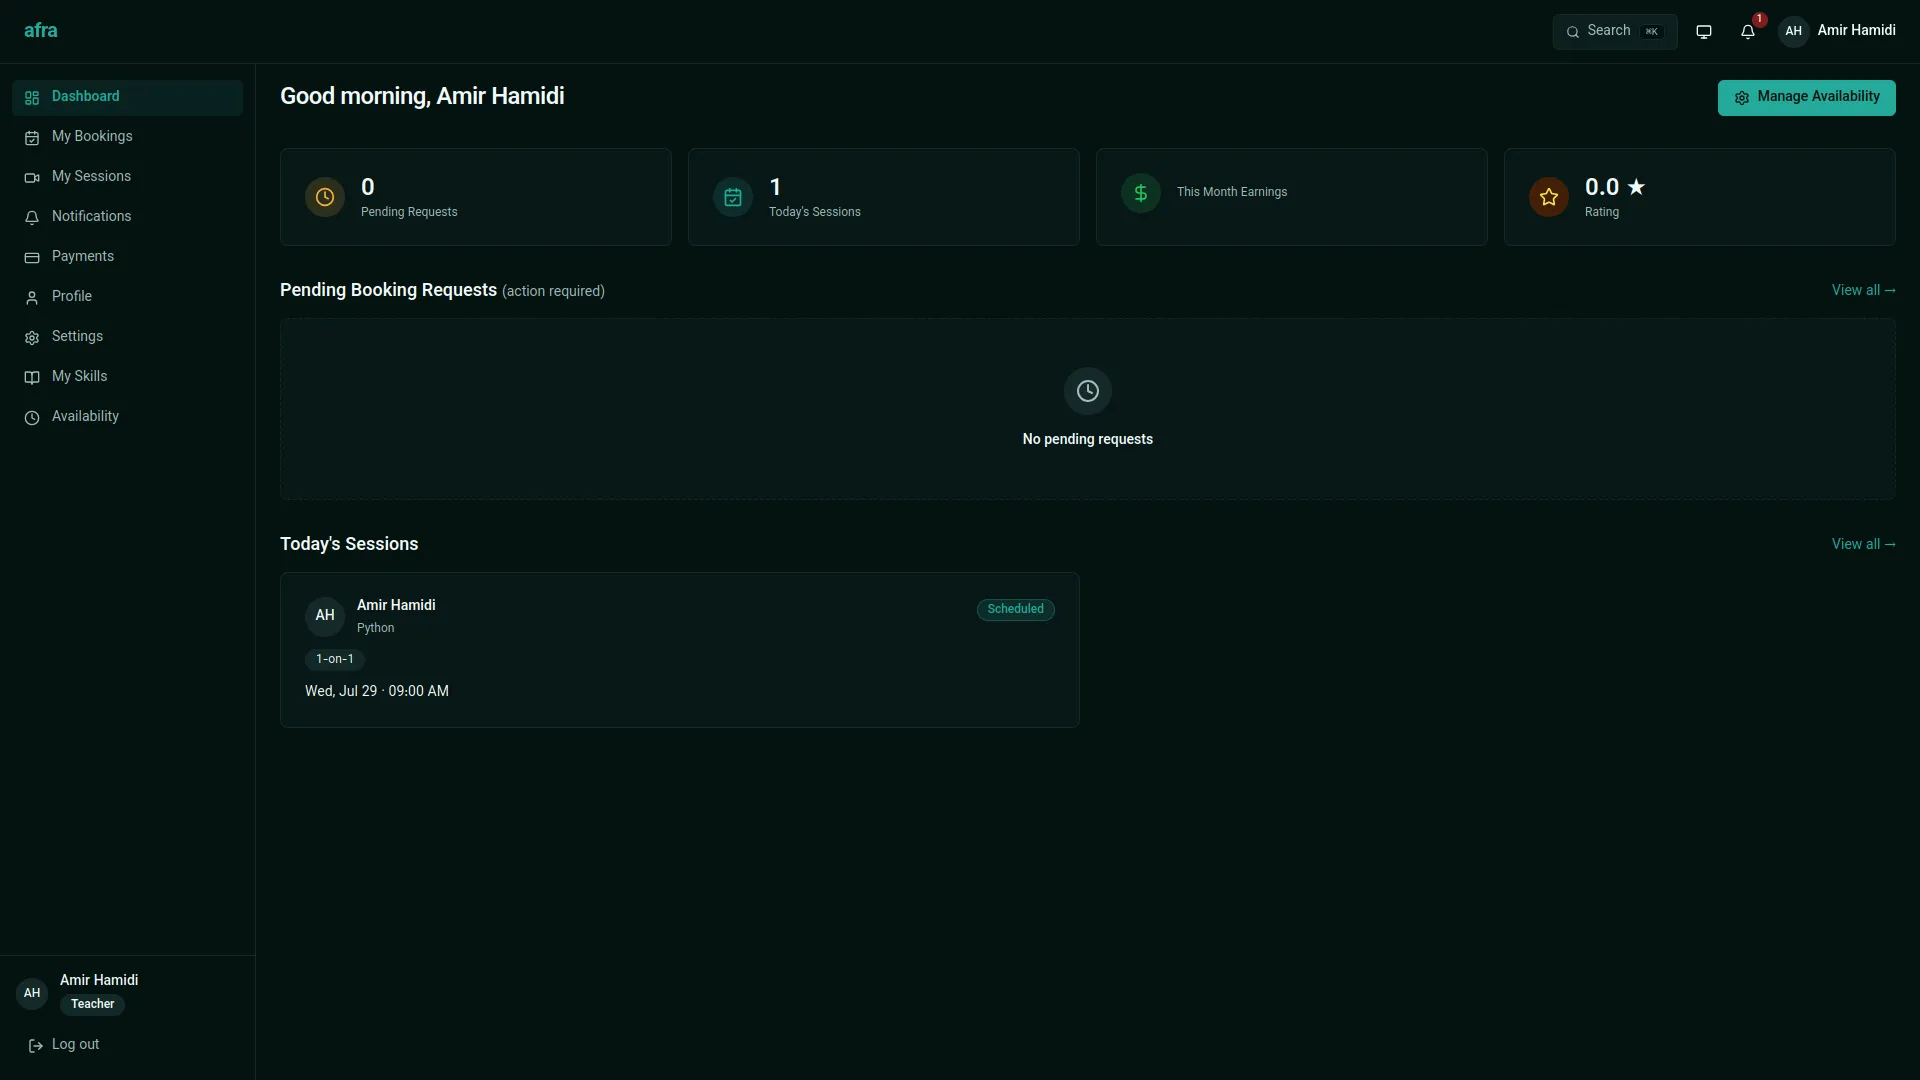
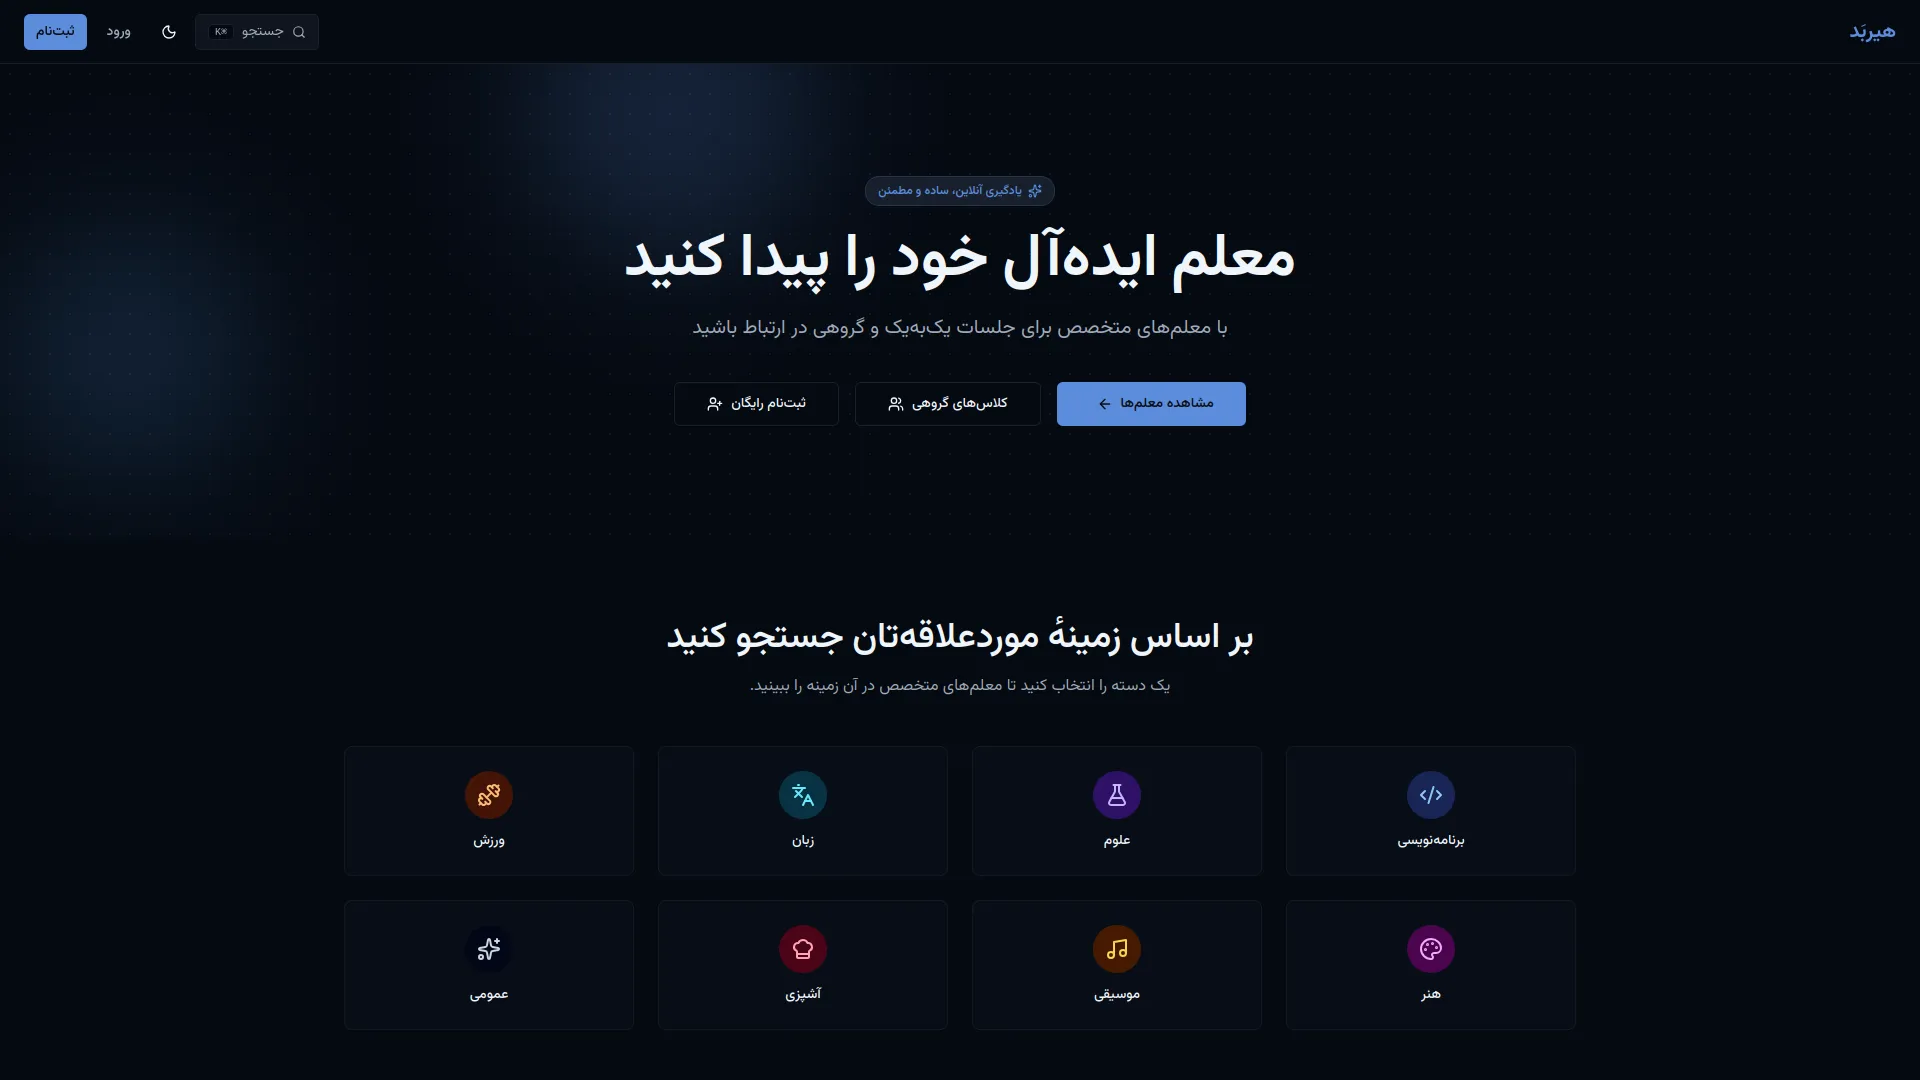
update portfolio projects and images
- Updated portfolio project images
- Replaced Afra Platform with Hirbad Platform
- Replaced Regal Mehrad with Novin Sanat Felez
- Updated Regal Mehrad project details and URL
- Updated portfolio image alt text and tags

diff --git a/core/templates/website/portfolio.html b/core/templates/website/portfolio.html
@@ -156,11 +156,11 @@
                     <img src="{% static 'assets/img/portfolio/portfolio-4.webp' %}" alt="E-commerce API" class="img-fluid" />
                     <div class="portfolio-overlay">
                       <a href="{% static 'assets/img/portfolio/portfolio-4.webp' %}" class="glightbox portfolio-lightbox"><i class="bi bi-plus"></i></a>
-                      <a href="https://afraplatform.vercel.app/" class="portfolio-details-link"><i class="bi bi-link"></i></a>
+                      <a href="https://hirbad.com" class="portfolio-details-link"><i class="bi bi-link"></i></a>
                     </div>
                   </div>
                   <div class="portfolio-info">
-                    <h4>Afra Platform</h4>
+                    <h4>Hirbad Platform</h4>
                     <p>Modern Online Learning Marketplace</p>
                     <div class="portfolio-tags">
                       <span>Django REST</span>
@@ -191,18 +191,18 @@
                 </div>
               </div>
 
-              <!-- Product 2 (Web) -->
+              <!-- Novin Sanat Felez -->
               <div class="col-lg-4 col-md-6 portfolio-item isotope-item filter-web">
                 <div class="portfolio-card">
                   <div class="portfolio-img">
-                    <img src="{% static 'assets/img/portfolio/portfolio-6.webp' %}" alt="Product 2" class="img-fluid" />
+                    <img src="{% static 'assets/img/portfolio/portfolio-6.webp' %}" alt="Novin Sanat Felez" class="img-fluid" />
                     <div class="portfolio-overlay">
                       <a href="{% static 'assets/img/portfolio/portfolio-6.webp' %}" class="glightbox portfolio-lightbox"><i class="bi bi-plus"></i></a>
-                      <a href="https://regalmehrad.pythonanywhere.com/" class="portfolio-details-link"><i class="bi bi-link"></i></a>
+                      <a href="https://novinsanatfelez.com/" class="portfolio-details-link"><i class="bi bi-link"></i></a>
                     </div>
                   </div>
                   <div class="portfolio-info">
-                    <h4>Regal Mehrad</h4>
+                    <h4>Novin Sanat Felez</h4>
                     <p>Branding & Web</p>
                     <div class="portfolio-tags">
                       <span>HTML/CSS</span>
@@ -233,22 +233,22 @@
                 </div>
               </div>
 
-              <!-- Branding 3 (Web) -->
+              <!-- Regal Mehrad (Web) -->
               <div class="col-lg-4 col-md-6 portfolio-item isotope-item filter-web">
                 <div class="portfolio-card">
                   <div class="portfolio-img">
-                    <img src="{% static 'assets/img/portfolio/portfolio-11.webp' %}" alt="Branding 3" class="img-fluid" />
+                    <img src="{% static 'assets/img/portfolio/portfolio-11.webp' %}" alt="Regal Mehrad" class="img-fluid" />
                     <div class="portfolio-overlay">
                       <a href="{% static 'assets/img/portfolio/portfolio-11.webp' %}" class="glightbox portfolio-lightbox"><i class="bi bi-plus"></i></a>
-                      <a href="#" class="portfolio-details-link"><i class="bi bi-link"></i></a>
+                      <a href="https://regalmehrad.pythonanywhere.com/" class="portfolio-details-link"><i class="bi bi-link"></i></a>
                     </div>
                   </div>
                   <div class="portfolio-info">
-                    <h4>Branding 3</h4>
+                    <h4>Regal Mehrad</h4>
                     <p>Visual Identity</p>
                     <div class="portfolio-tags">
-                      <span>Logo Design</span>
-                      <span>Style Guide</span>
+                      <span>HTML/CSS</span>
+                      <span>Django</span>
                     </div>
                   </div>
                 </div>
